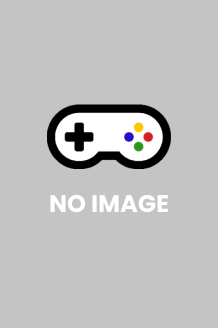
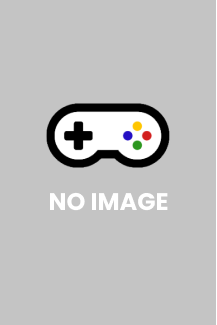
display default image if game image cannot be found

diff --git a/public/css/game.css b/public/css/game.css
@@ -172,13 +172,23 @@ h2 {
 }
 
 /* Game image */
-.game img {
+.game-img {
     width: 110px;
+    min-height: 110px;
+    max-height: 155px;
     display: block;
     float: left;
 
     margin: 10px 25px 5px 25px;
 }
+
+/* .game img {
+    width: 110px;
+    display: block;
+    float: left;
+
+    margin: 10px 25px 5px 25px;
+} */
 
 /* Game info */
 .game {

diff --git a/public/css/gameslist.css b/public/css/gameslist.css
@@ -172,7 +172,7 @@ button:hover {
 .game-img {
     width: 110px;
     min-height: 110px;
-    max-height: 160px;
+    max-height: 155px;
     display: block;
     float: left;
 
